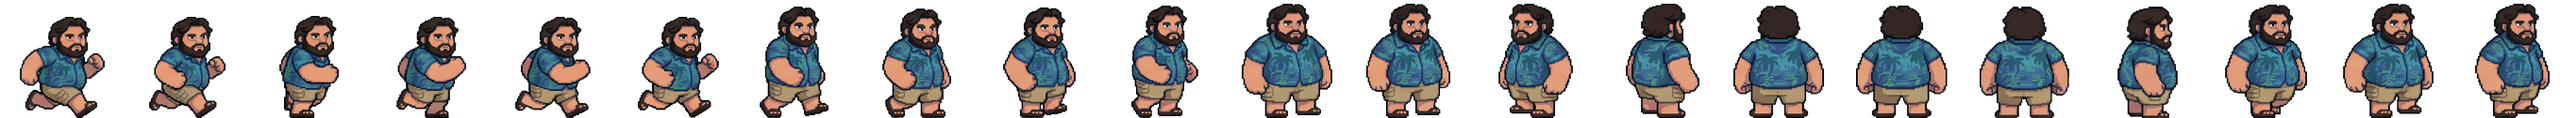
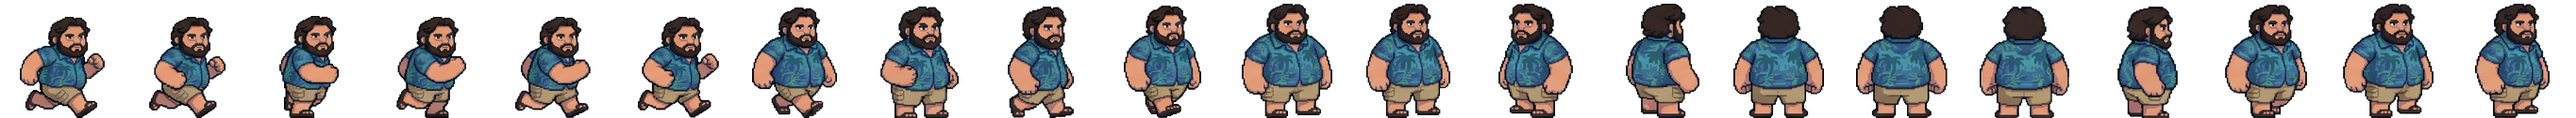
Camminata con le gambe alternate
Destra avanti, passaggio, sinistra avanti, passaggio, con i fotogrammi del foglio
dell'utente e senza la macchia grigia sotto il piede.

Changed region(s): [[0.2802, 0.0476, 0.467, 1.0], [0.4048, 0.0476, 0.4359, 0.119]]

diff --git a/index.html b/index.html
@@ -4,7 +4,7 @@
 <link rel="preconnect" href="https://fonts.googleapis.com">
 <link rel="preconnect" href="https://fonts.gstatic.com" crossorigin>
 <link rel="stylesheet" href="https://fonts.googleapis.com/css2?family=Bowlby+One&family=Baloo+2:wght@500;700;800&display=swap">
-<link rel="stylesheet" href="style.css?v=43">
+<link rel="stylesheet" href="style.css?v=44">
 
 <div id="schermo">
 <canvas id="d2" aria-label="Gioco Cicciobomba"></canvas>
@@ -85,6 +85,6 @@
 <div id="erroreT" hidden>Il gioco non è riuscito a partire. Controlla la connessione e ricarica la pagina.</div>
 
 </div>
-<script src="game.js?v=43"></script>
+<script src="game.js?v=44"></script>
 
 </body></html>

diff --git a/CLAUDE.md b/CLAUDE.md
@@ -6,7 +6,7 @@ Gioco per browser pensato per il telefono in orizzontale, pubblicato con GitHub 
 - `index.html`: solo il markup delle schermate (menu, guida, amici e skin, pausa, fine, HUD).
 - `style.css`: lo stile, con i colori come variabili su `:root`.
 - `game.js`: tutta la logica, in un unico script classico chiuso in una funzione e diviso in sezioni `/* ---------- NOME ---------- */`: orientamento, salvataggio, mondi e tappe, kit grafico e sonoro, skin, palla dipinta, audio, stato, comandi, cuori, corsa 2D, boss 2D, la bomba, guida, flusso, menu, ciclo.
-- `assets/`: `matteo_fermo.webp`, `matteo_cammina.webp`, `matteo_salto.webp`, `matteo_palla.webp` e `matteo_stanco.webp` (il Matteo nuovo dell'utente, con la camicia blu: mappe nei commenti sopra `fogSpr`. In partita li usa solo il Matteo normale, senza colore, skin o foto; gli amici, il menu e la guida usano ancora `personaggio*.webp`. Alto 3,8 raggi (`SPR_K`), piedi abbassati di `SPR_PIEDI`. `matteo_cammina.webp` ha solo i fotogrammi scelti, nell'ordine in cui braccia e gambe si alternano: 0-5 corre, 6-9 cammina, 10-20 si gira per noia. Nel foglio dell'utente la camminata non ha il passo opposto: serve un foglio rigenerato. L'utente non vuole dissolvenze tra i fotogrammi, perché sembrano sfumati, né un contorno nero aggiunto), `fondi/ananas_nuovo.webp` (fondale attuale del mondo 1, ripetuto a specchio da `strato`), `kit.webp` (atlante dei blocchi Kenney, coordinate in `KMAP`), `personaggio.webp`, `personaggio2.webp` e `personaggio3.webp` (fogli delle animazioni di Matteo; il terzo è Matteo stanco, con le stesse celle da 200 del secondo), `fumo.webp`, `polvere.webp`, `esplosione.webp`, `pizza.webp`, `kit2.webp` (altri pezzi del kit), `nemico_ananas.webp` (l'ananas arrabbiato dal foglio "Pineapple Tiles" CC0 dell'utente, nemico del mondo 1; degli altri pezzi di quel foglio l'utente non vuole niente, né per il terreno né per le grotte; il terreno ananas di `paesaggio.webp` è un'altra serie, che invece gli va bene), `paesaggio.webp` (terreno del mondo 1: buccia e polpa d'ananas disegnate dall'utente, caselle da 68 nello stesso ordine di `PIX`, poi la rampa (`sprite-20.png`), la terra sotto la rampa (`paesaggio.png`) e i lati del piano: ai piedi di un muro (`sprite-28.png`), gradino in giù (`sprite-29.png`) e bordo sul vuoto (`sprite-30.png`), poi il muro accanto al bordo sul vuoto (`sprite-32.png`) sotto una colonna (`sprite-33.png`) e il piano ai lati della colonna (`sprite-31.png`); i pezzi singoli stanno in `paesaggio/`), `erbananas.webp` (ciuffo d'ananas dell'utente, al posto del cespuglio nei decori del mondo 1 e nel menu, disegnato da `ciuffo()` in grandezza vera, alla scala delle caselle da 68, perché il bordo scuro sia spesso come quello del pavimento. Largo più di 3 caselle, deve stare tutto sul piano: se sporge sul vuoto rientra un po' a sinistra (`d.dx`), e se non ci sta diventa erba; l'originale è `paesaggio/erbananas.png`), `bomba.webp` (Matteo carico al massimo: 37 fotogrammi da 160 in righe da 10, mappa in `disegnaBomba`), `boss_ananas.webp` (Ananassone: fotogrammi da 192x204 in righe da 8, 32-34 stordito, mappa in `disegnaAnanas` e `disegnaBoss`; gli altri due boss sono ancora disegnati nel codice in `BOSPR`), `fondi/*.webp` (nel mondo 1, con `retro:'cielo'`, dietro c'è solo il cielo: azzurro sfumato e in alto la striscia `cielo_nuvole.webp`, ritagliata dal disegno dell'utente; l'utente ha provato a metterci sopra un dipinto della valle col fiume e non lo vuole: dietro resta solo il cielo; davanti `ananas_ponti.webp`, il disegno dell'utente con gli ananas giganti e i ponti (1024x572, già scontornato da lui), che scorre piano (0,1). L'utente l'ha ridisegnato perché i bordi destro e sinistro si attacchino: `stratoPonti` mette le copie una dopo l'altra, sovrapposte di un pixel, senza sfumature né specchio. `strato()` ripete le immagini specchiate una volta sì e una no, senza le due colonne di bordo e sovrapposte di 3 px: prima tra una copia e l'altra si vedeva una riga chiara. Restano nel codice, non usati, il fondale arancio `ananas_lontano.webp` (`retro:'ananas_lontano'`) e gli oggetti di `oggetti.webp` (`oggetti:true`, `filaOggetti`)), messi in due file ripetute e sovrapposte da `filaOggetti`, con `oggetti:true` nel mondo. La felce grande è attaccata all'albero e resta con lui; le liane e la foglia sola non si usano), `suoni/*.mp3`.
+- `assets/`: `matteo_fermo.webp`, `matteo_cammina.webp`, `matteo_salto.webp`, `matteo_palla.webp` e `matteo_stanco.webp` (il Matteo nuovo dell'utente, con la camicia blu: mappe nei commenti sopra `fogSpr`. In partita li usa solo il Matteo normale, senza colore, skin o foto; gli amici, il menu e la guida usano ancora `personaggio*.webp`. Alto 3,8 raggi (`SPR_K`), piedi abbassati di `SPR_PIEDI`. `matteo_cammina.webp` ha solo i fotogrammi scelti, nell'ordine in cui braccia e gambe si alternano: 0-5 corre, 6-9 cammina, 10-20 si gira per noia. La camminata alterna le gambe: destra avanti (2ª riga, 6°, senza la macchia grigia), passaggio (4ª riga, 4°), sinistra avanti (4ª riga, 6°), passaggio (2ª riga, 2°). Nel foglio la gamba vicina è la destra: è più chiara e ha la tasca; le altre righe hanno quasi sempre la sinistra avanti. L'utente non vuole dissolvenze tra i fotogrammi, perché sembrano sfumati, né un contorno nero aggiunto), `fondi/ananas_nuovo.webp` (fondale attuale del mondo 1, ripetuto a specchio da `strato`), `kit.webp` (atlante dei blocchi Kenney, coordinate in `KMAP`), `personaggio.webp`, `personaggio2.webp` e `personaggio3.webp` (fogli delle animazioni di Matteo; il terzo è Matteo stanco, con le stesse celle da 200 del secondo), `fumo.webp`, `polvere.webp`, `esplosione.webp`, `pizza.webp`, `kit2.webp` (altri pezzi del kit), `nemico_ananas.webp` (l'ananas arrabbiato dal foglio "Pineapple Tiles" CC0 dell'utente, nemico del mondo 1; degli altri pezzi di quel foglio l'utente non vuole niente, né per il terreno né per le grotte; il terreno ananas di `paesaggio.webp` è un'altra serie, che invece gli va bene), `paesaggio.webp` (terreno del mondo 1: buccia e polpa d'ananas disegnate dall'utente, caselle da 68 nello stesso ordine di `PIX`, poi la rampa (`sprite-20.png`), la terra sotto la rampa (`paesaggio.png`) e i lati del piano: ai piedi di un muro (`sprite-28.png`), gradino in giù (`sprite-29.png`) e bordo sul vuoto (`sprite-30.png`), poi il muro accanto al bordo sul vuoto (`sprite-32.png`) sotto una colonna (`sprite-33.png`) e il piano ai lati della colonna (`sprite-31.png`); i pezzi singoli stanno in `paesaggio/`), `erbananas.webp` (ciuffo d'ananas dell'utente, al posto del cespuglio nei decori del mondo 1 e nel menu, disegnato da `ciuffo()` in grandezza vera, alla scala delle caselle da 68, perché il bordo scuro sia spesso come quello del pavimento. Largo più di 3 caselle, deve stare tutto sul piano: se sporge sul vuoto rientra un po' a sinistra (`d.dx`), e se non ci sta diventa erba; l'originale è `paesaggio/erbananas.png`), `bomba.webp` (Matteo carico al massimo: 37 fotogrammi da 160 in righe da 10, mappa in `disegnaBomba`), `boss_ananas.webp` (Ananassone: fotogrammi da 192x204 in righe da 8, 32-34 stordito, mappa in `disegnaAnanas` e `disegnaBoss`; gli altri due boss sono ancora disegnati nel codice in `BOSPR`), `fondi/*.webp` (nel mondo 1, con `retro:'cielo'`, dietro c'è solo il cielo: azzurro sfumato e in alto la striscia `cielo_nuvole.webp`, ritagliata dal disegno dell'utente; l'utente ha provato a metterci sopra un dipinto della valle col fiume e non lo vuole: dietro resta solo il cielo; davanti `ananas_ponti.webp`, il disegno dell'utente con gli ananas giganti e i ponti (1024x572, già scontornato da lui), che scorre piano (0,1). L'utente l'ha ridisegnato perché i bordi destro e sinistro si attacchino: `stratoPonti` mette le copie una dopo l'altra, sovrapposte di un pixel, senza sfumature né specchio. `strato()` ripete le immagini specchiate una volta sì e una no, senza le due colonne di bordo e sovrapposte di 3 px: prima tra una copia e l'altra si vedeva una riga chiara. Restano nel codice, non usati, il fondale arancio `ananas_lontano.webp` (`retro:'ananas_lontano'`) e gli oggetti di `oggetti.webp` (`oggetti:true`, `filaOggetti`)), messi in due file ripetute e sovrapposte da `filaOggetti`, con `oggetti:true` nel mondo. La felce grande è attaccata all'albero e resta con lui; le liane e la foglia sola non si usano), `suoni/*.mp3`.
 - `tools/build.py`: ricompone tutto in `dist/cicciobomba.html`, un file unico con le risorse dentro, che si apre con un doppio clic. `dist/` è generata ed esclusa da git: non modificarla a mano.
 
 ## Regole
